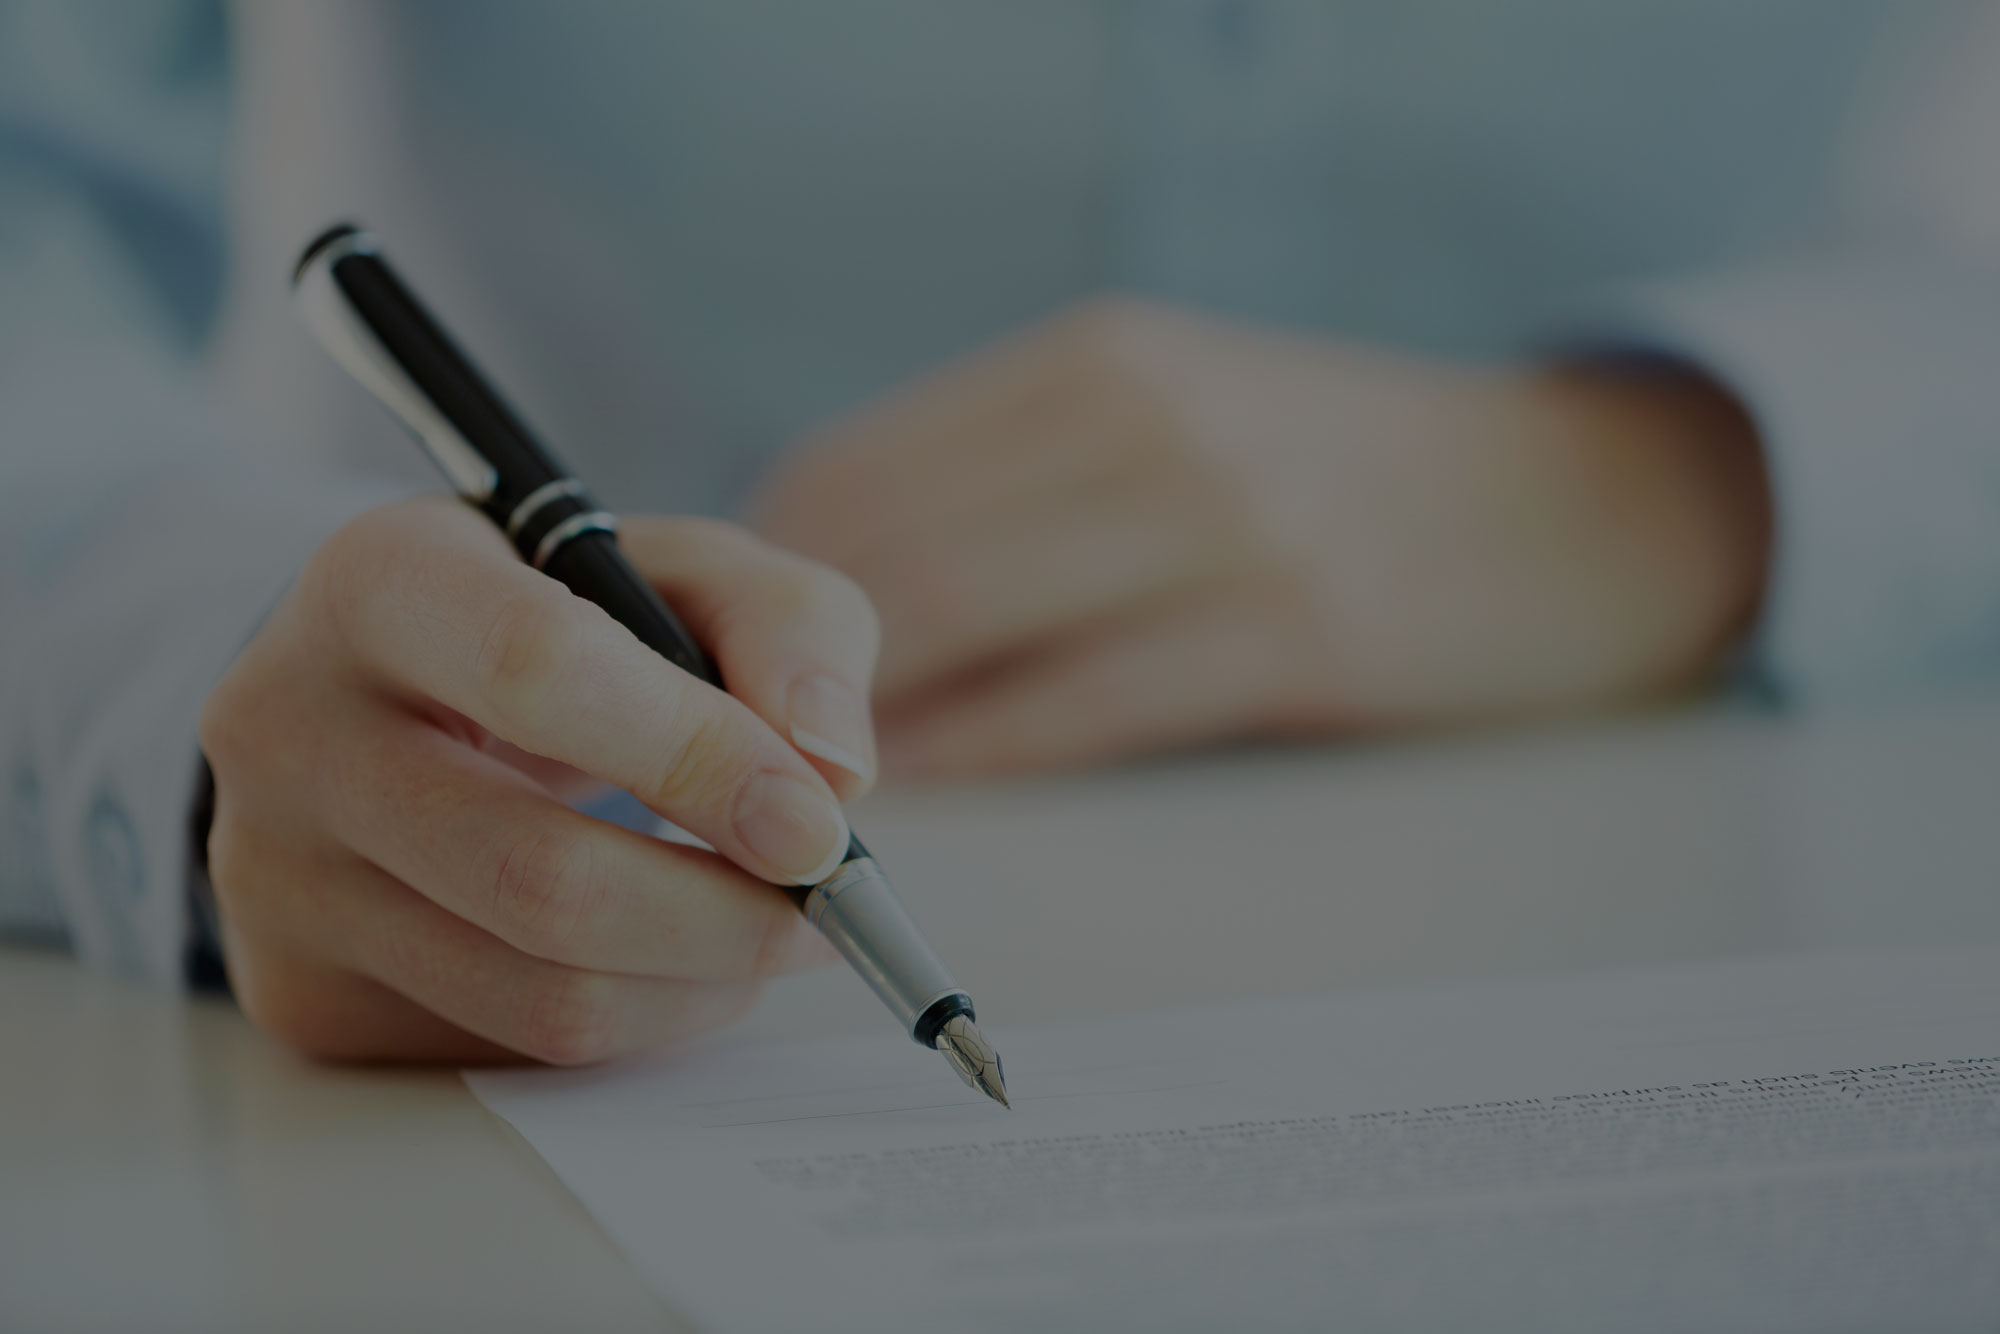
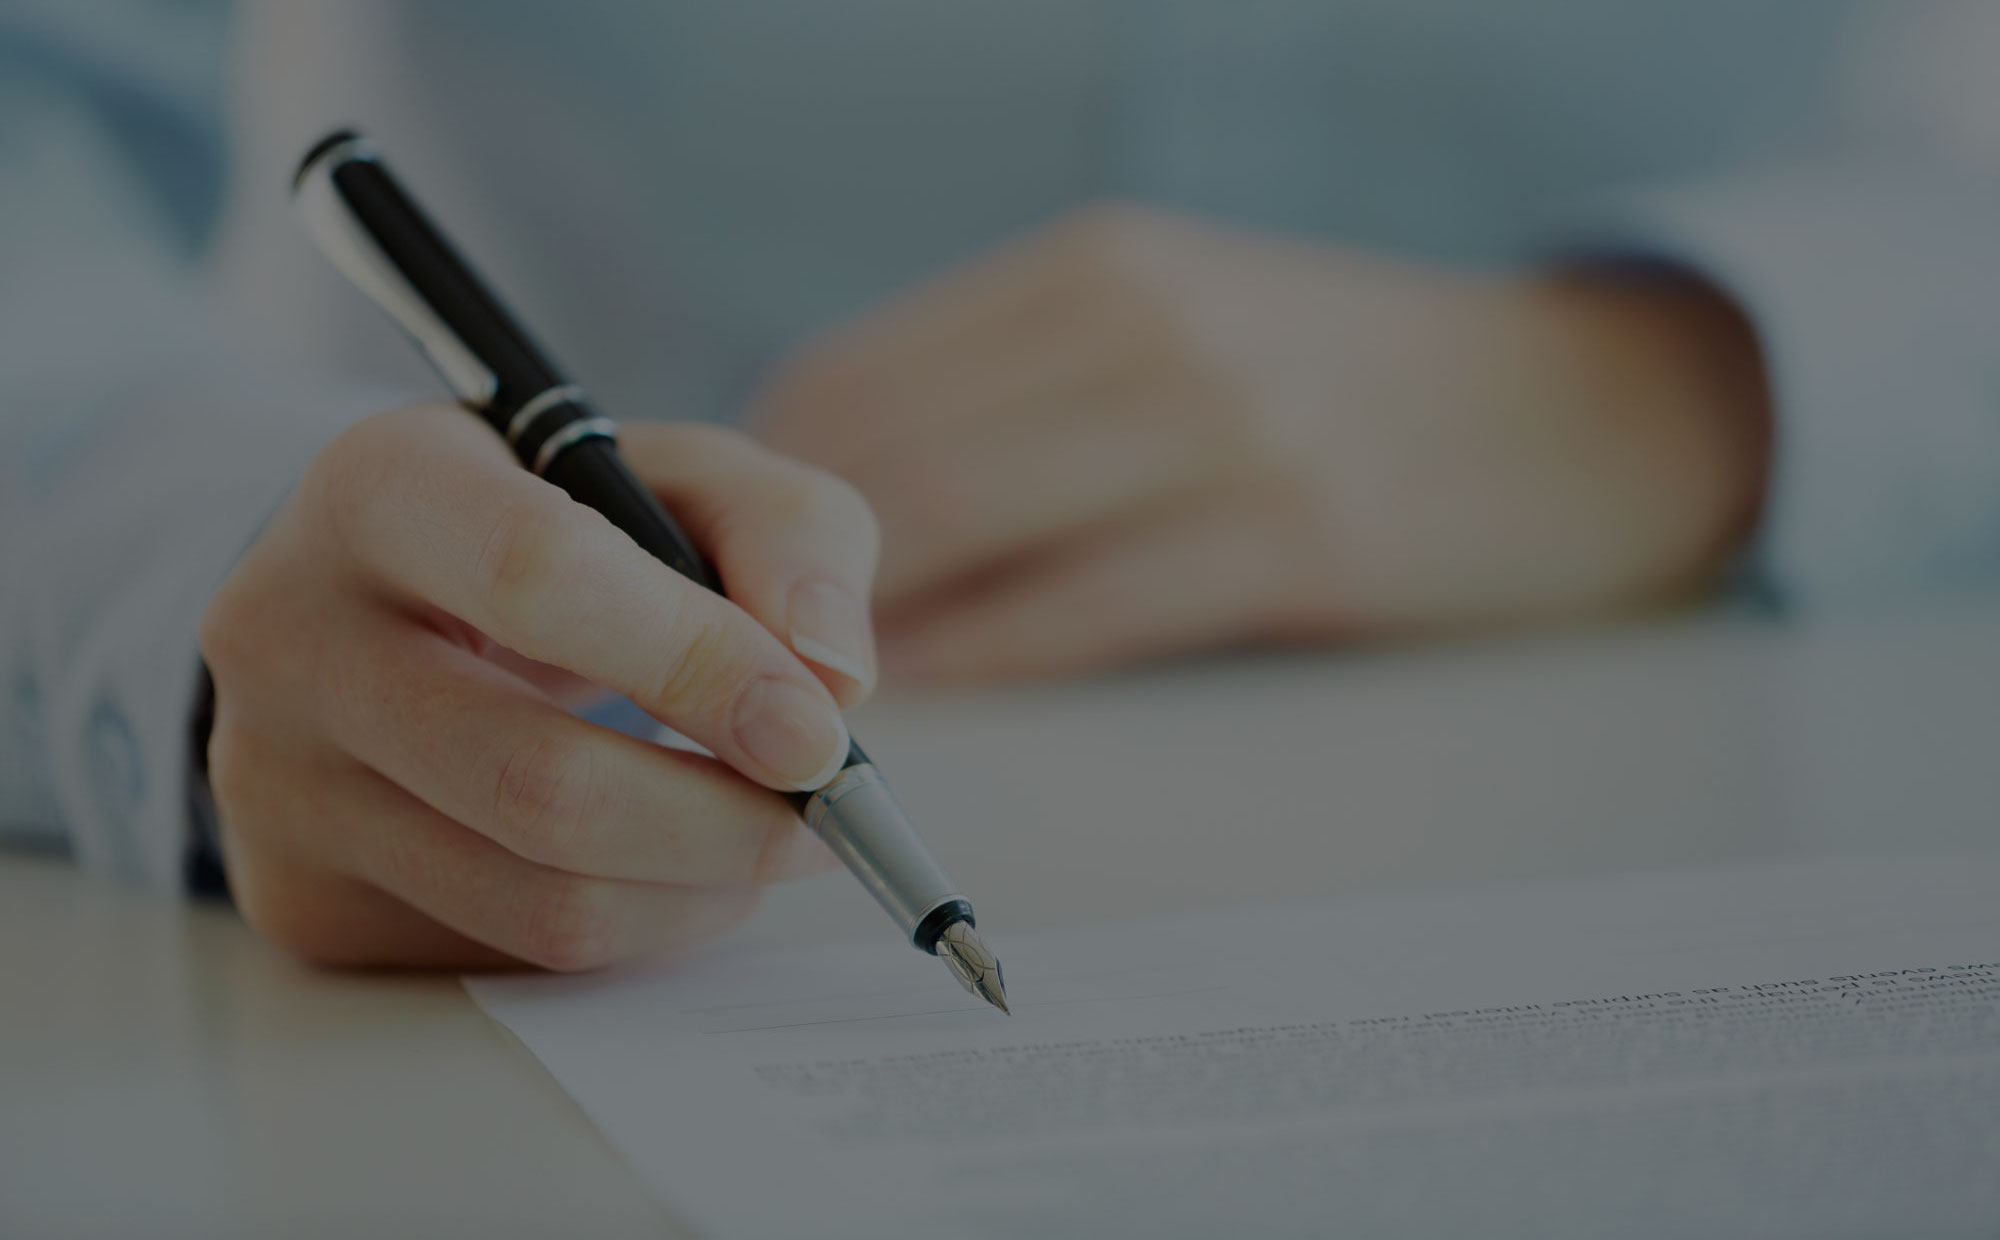
So many Changes

diff --git a/_includes/contact.html b/_includes/contact.html
@@ -4,16 +4,19 @@
 
         <div class="row">
             <div class="col-lg-6">
-                <h2>Connect to Start Bootstrap:</h2>
+                <h2>Contact Us</h2>
             </div>
             <div class="col-lg-6">
-                <ul class="list-inline banner-social-buttons">
+            	<p>419 North Edgeworth Street</p>
+            	<p>Greensboro, NC 27401</p>
+            	<p>336.379.5006</p>
+                <!--<ul class="list-inline banner-social-buttons">
                     {% for social in site.social %}
                     <li>
                         <a href="{{ social.url }}" class="btn btn-default btn-lg"><i class="fa fa-{{ social.title }} fa-fw"></i> <span class="network-name">{{ social.title }}</span></a>
                     </li>
                     {% endfor %}
-                </ul>
+                </ul>-->
             </div>
         </div>
 

diff --git a/_includes/header.html b/_includes/header.html
@@ -40,14 +40,14 @@
                 <div class="intro-message">
                     <h1>{{ page.title }}</h1>
                     <h3>{{ page.subTitle }}</h3>
-                    <hr class="intro-divider">
-                    <ul class="list-inline intro-social-buttons">
+                    <!--<hr class="intro-divider">-->
+                    <!--<ul class="list-inline intro-social-buttons">
                         {% for social in site.social %}
                         <li>
                             <a href="{{ social.url }}" class="btn btn-default btn-lg"><i class="fa fa-{{ social.title }} fa-fw"></i> <span class="network-name">{{ social.title }}</span></a>
                         </li>
                         {% endfor %}
-                    </ul>
+                    </ul>-->
                 </div>
             </div>
         </div>

diff --git a/css/landing-page.css b/css/landing-page.css
@@ -21,14 +21,19 @@ h6 {
     font-weight: 700;
 }
 
+body ul {
+	font-size: 18px;
+	font-weight: 400;
+}
+
 .lead {
     font-size: 18px;
     font-weight: 400;
 }
 
 .intro-header {
-    padding-top: 50px; /* If you're making other pages, make sure there is 50px of padding to make sure the navbar doesn't overlap content! */
-    padding-bottom: 50px;
+    /*padding-top: 50px;*/ /* If you're making other pages, make sure there is 50px of padding to make sure the navbar doesn't overlap content! */
+/*    padding-bottom: 50px;*/
     text-align: center;
     color: #f8f8f8;
     background: url(../img/intro-bg.jpg) no-repeat center center;
@@ -119,7 +124,11 @@ h6 {
 .banner h2 {
     margin: 0;
     text-shadow: 2px 2px 3px rgba(0,0,0,0.6);
-    font-size: 3em;
+    font-size: 3.2em;
+}
+
+.banner p {
+	font-size: 1.4em;
 }
 
 .banner ul {

diff --git a/_includes/page_content.html b/_includes/page_content.html
@@ -14,7 +14,7 @@
                     {{ post.description }}
                 </div>
                 <div class="col-lg-5 col-lg-offset-2 col-sm-6">
-                    <img class="img-responsive" src="img/services/{{ post.img }}" alt="">
+                    <img style="border: 4px solid #222;" class="img-responsive" src="img/services/{{ post.img }}" alt="">
                 </div>
             </div>
 
@@ -37,7 +37,7 @@
                     {{ post.description }}
                 </div>
                 <div class="col-lg-5 col-sm-pull-6  col-sm-6">
-                  <img class="img-responsive" src="img/services/{{ post.img }}" alt="">
+                  <img style="border: 4px solid #222;" class="img-responsive" src="img/services/{{ post.img }}" alt="">
                 </div>
             </div>
 

diff --git a/css/bootstrap.css b/css/bootstrap.css
@@ -938,6 +938,7 @@ img {
   width: 100% \9;
   max-width: 100%;
   height: auto;
+  border: 3px solid #fff;
 }
 .img-rounded {
   border-radius: 6px;

diff --git a/README.md b/README.md
@@ -1,4 +1,4 @@
-# Landing Page Jekyll theme
+# Landing Page Jekyll themee
 
 Jekyll theme based on [landing-page bootstrap theme ](http://startbootstrap.com/templates/landing-page/)
 
